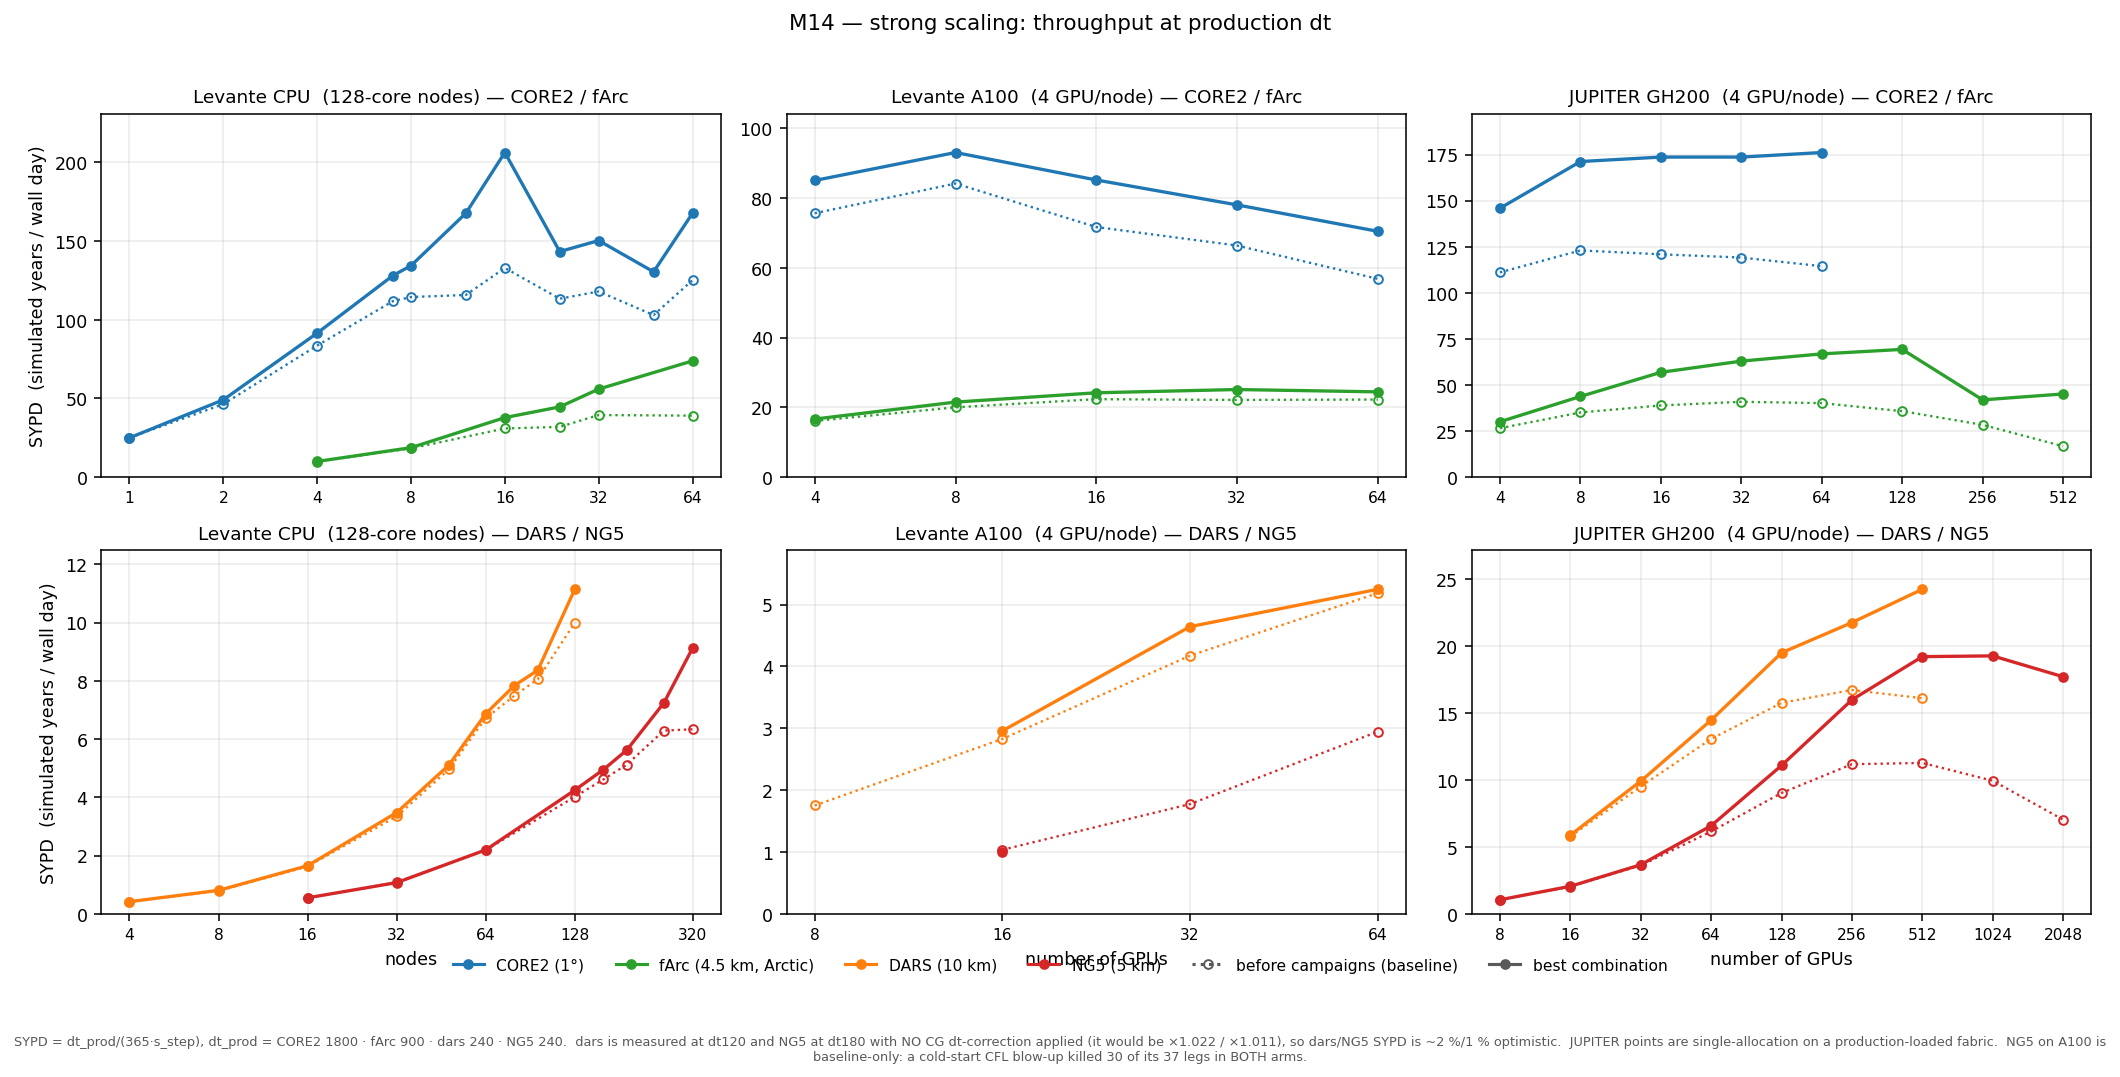
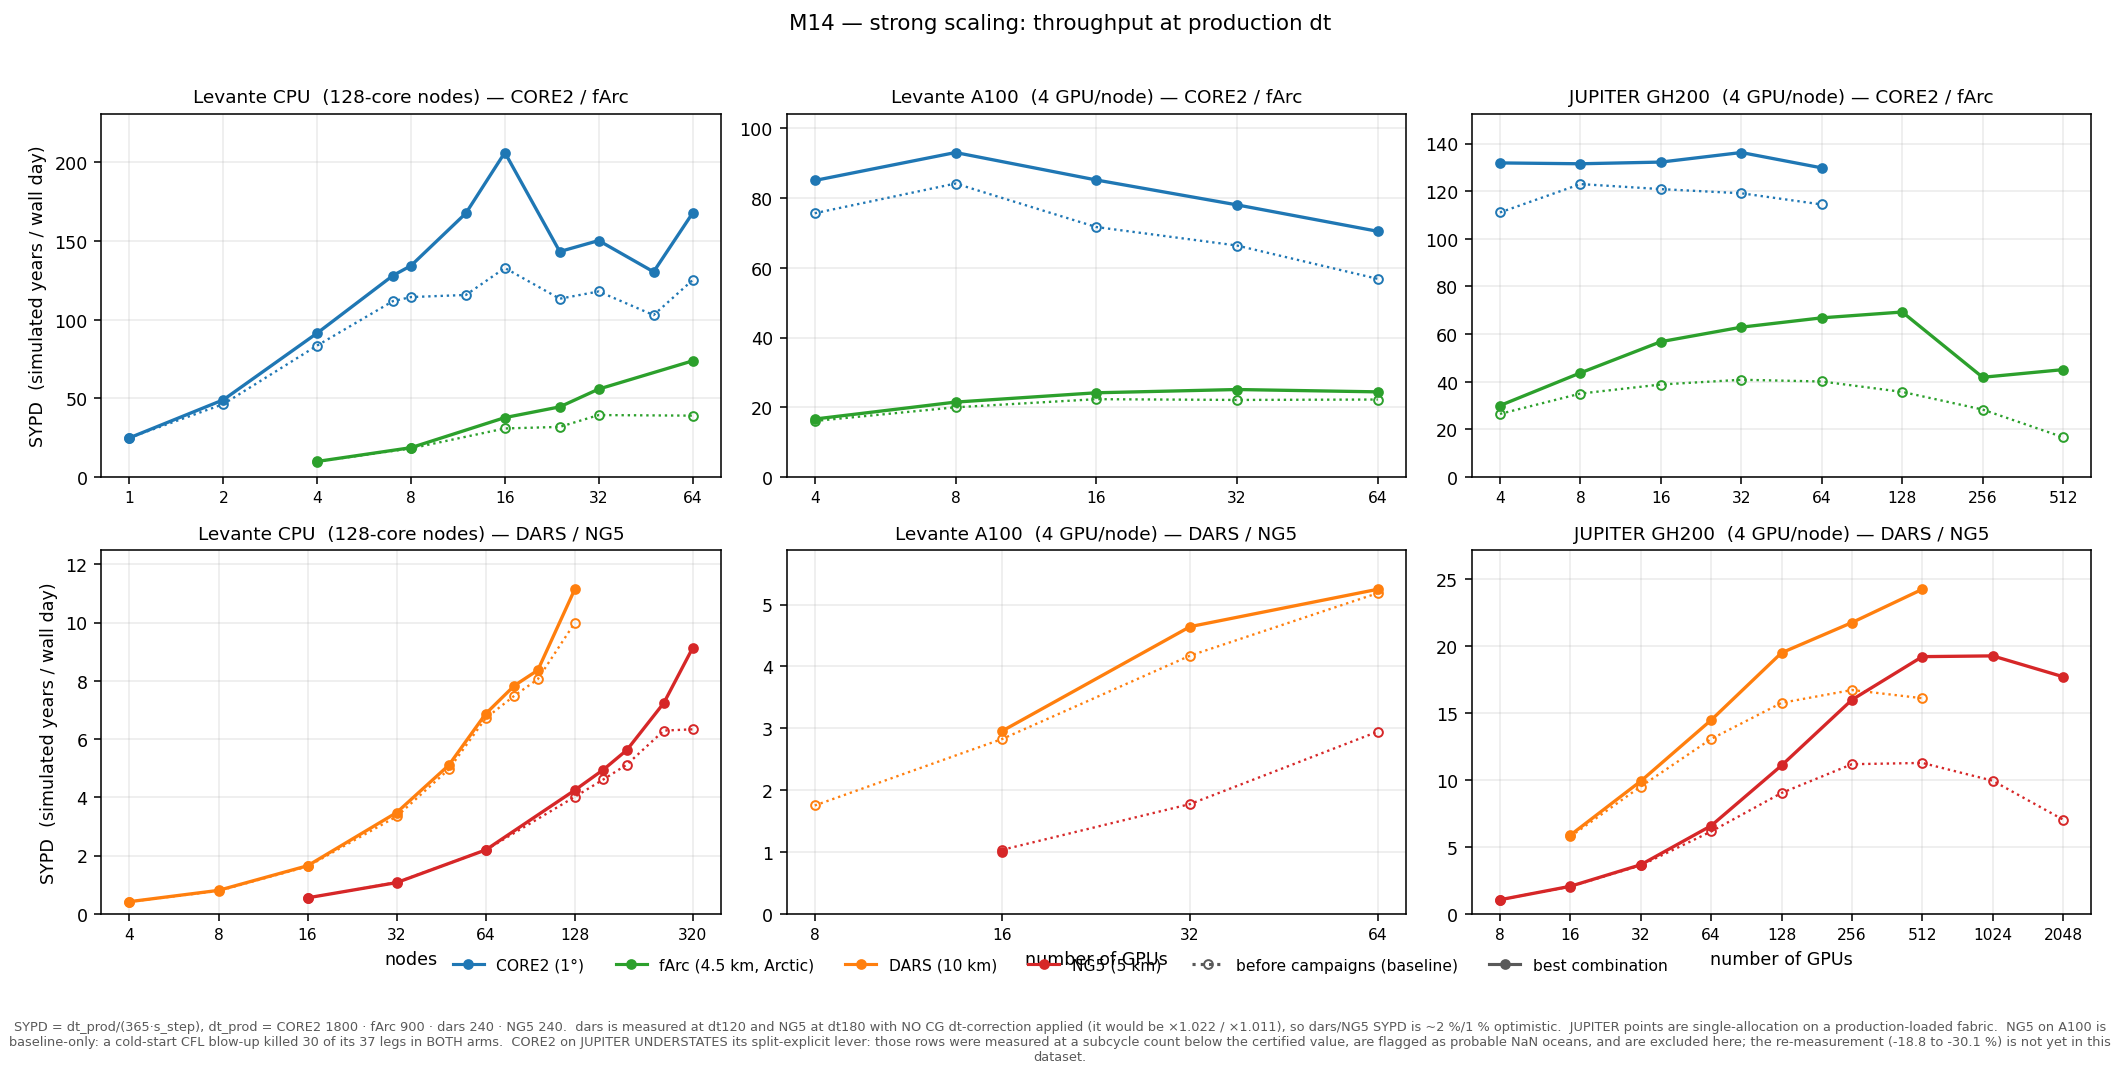
Figures: exclude the SUSPECT CORE2 M=35 JUPITER rows — my figures were built on them
The JUPITER session flagged the CORE2 SE and max-config rows measured at
FESOM_SE_M=35 (jobs 1391309-13, 1391973-77, 1392095-99) as probable NaN oceans:
M=35 is the CFL guard MINIMUM, a live-print binary blows up at step 2-3 there,
and the NaN-aware instrument found all 21888 ring-1 eta entries NaN by step 30
while the NaN-blind one printed 0.0 (L110, third sighting). The ladder's own
zombie check is blind at that point because the GPU diag line carries no live
ocean signal. L106: a NaN ocean measures FASTER.

All nine flagged jobs were in the CSV my figures harvest from, so every figure
with a JUPITER CORE2 column was built on them. Excluding them drops CORE2's best
JUPITER speedup from 1.394x (se, suspect) to 1.150x (oati, clean) -- which is now
an UNDERSTATEMENT, because the M=50 re-measurement (-18.8 to -30.1%) is not in
this CSV. Flagged on the figures rather than papered over: a gap beats a wrong
number.

Needed from the JUPITER side before the figures are publication-ready: a CSV
including jobs 1396897-901 and 1396964-68.

diff --git a/scripts/m14_scaling_figs.py b/scripts/m14_scaling_figs.py
@@ -191,6 +191,21 @@ def harvest():
                 #     measurement. Both rungs were re-measured cleanly in the post-fix burst.
                 if r["job"] in ("1391342", "1391348"):
                     continue
+                # 🔴 (A2) CORE2 SE and max-config rows measured at FESOM_SE_M=35 are SUSPECT:
+                # M=35 is the CFL guard MINIMUM (dtbt at 98.6 % of the mesh limit), a live-print
+                # binary blows up at step 2-3 there, and the NaN-aware instrument found all 21888
+                # ring-1 eta entries NaN by step 30 while the NaN-blind one printed 0.0. The
+                # ladder's own zombie check is blind at that point because the GPU diag line
+                # carries no live ocean signal. L106: a NaN ocean measures FASTER, so these rows
+                # are optimistically biased. The certified CORE2 value is 50
+                # (docs/SSH_SE_M12.md:25). Re-earned at M=50 in jobs 1396897-901 / 1396964-68,
+                # which are NOT yet in this CSV -- so CORE2's JUPITER SE column is a GAP, not a
+                # number, until that harvest lands.
+                if r["job"] in tuple(str(j) for j in
+                                     list(range(1391309, 1391314)) +
+                                     list(range(1391973, 1391978)) +
+                                     list(range(1392095, 1392100))):
+                    continue
                 # (B) On the remaining pre-fix rows the BEST arm carried the wide halo through
                 #     the crashing path, so that number is void — but the BASE arm of a wide-halo
                 #     job runs no wide-halo knob at all. It is an ordinary baseline measurement
@@ -330,7 +345,10 @@ NOTE_SYPD = ("SYPD = dt_prod/(365·s_step), dt_prod = CORE2 1800 · fArc 900 · 
              "dars is measured at dt120 and NG5 at dt180 with NO CG dt-correction applied "
              "(it would be ×1.022 / ×1.011), so dars/NG5 SYPD is ~2 %/1 % optimistic.")
 NOTE_GAP = ("JUPITER points are single-allocation on a production-loaded fabric.  NG5 on A100 is "
-            "baseline-only: a cold-start CFL blow-up killed 30 of its 37 legs in BOTH arms.")
+            "baseline-only: a cold-start CFL blow-up killed 30 of its 37 legs in BOTH arms.  "
+            "CORE2 on JUPITER UNDERSTATES its split-explicit lever: those rows were measured at a "
+            "subcycle count below the certified value, are flagged as probable NaN oceans, and are "
+            "excluded here; the re-measurement (-18.8 to -30.1 %) is not yet in this dataset.")
 
 
 def annotate_gaps(ax, plat, data):
